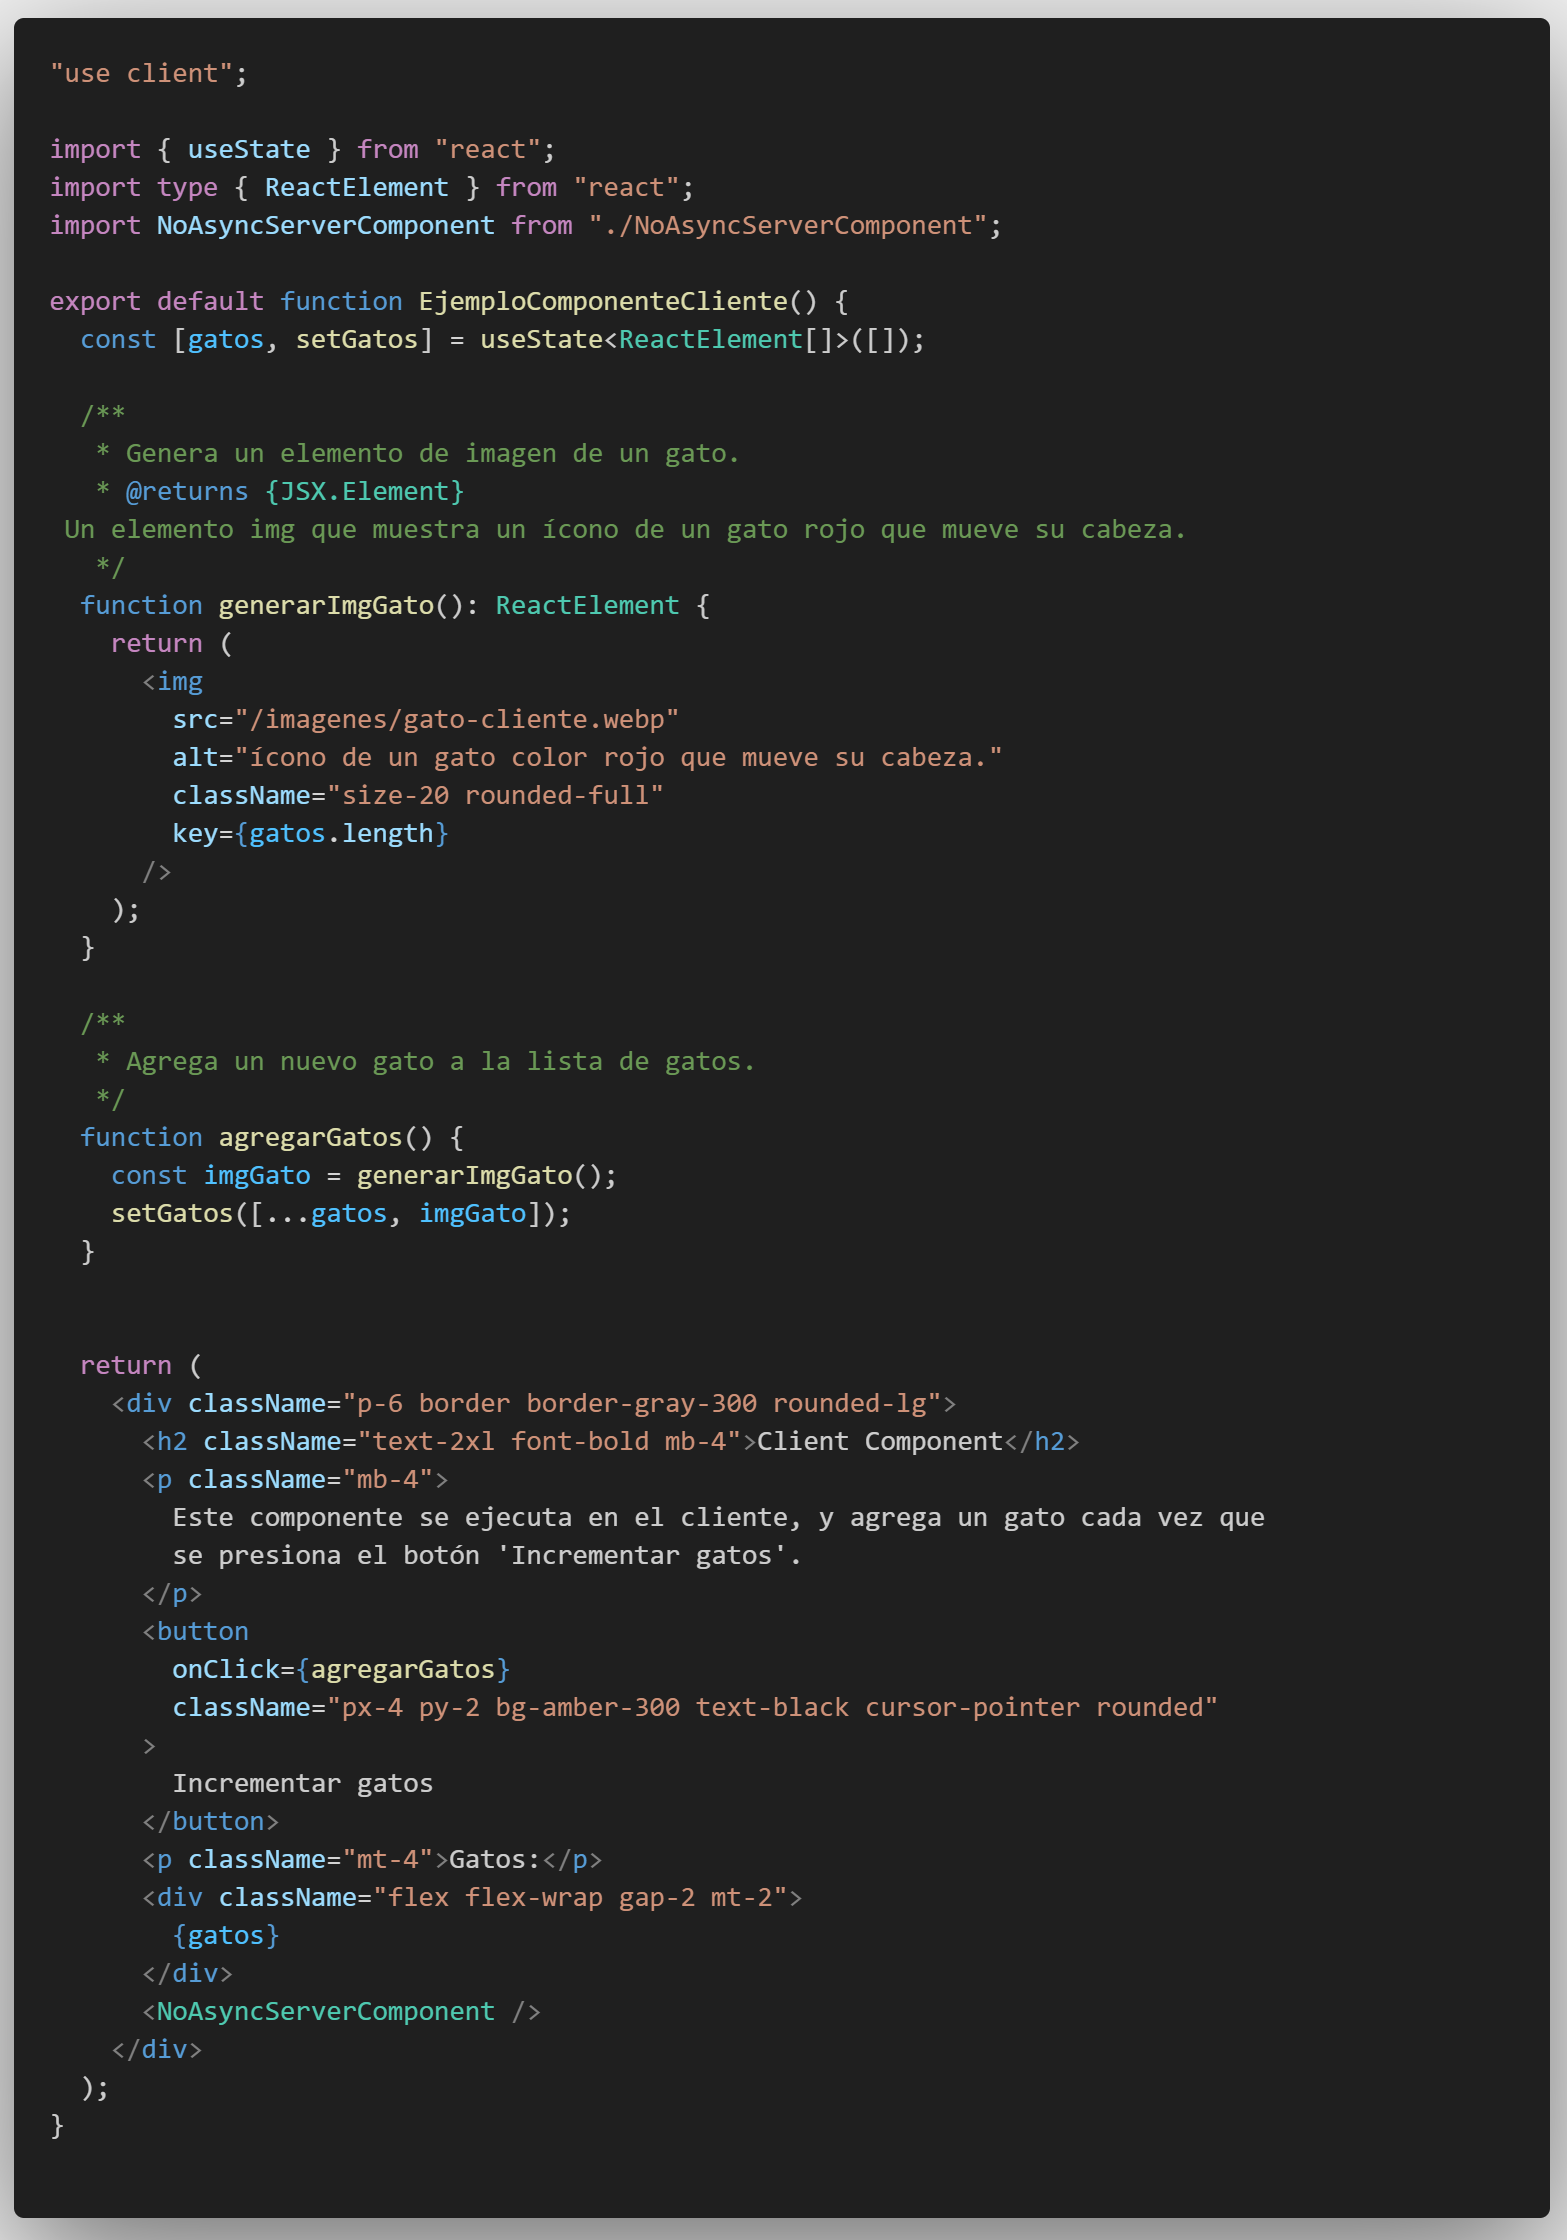
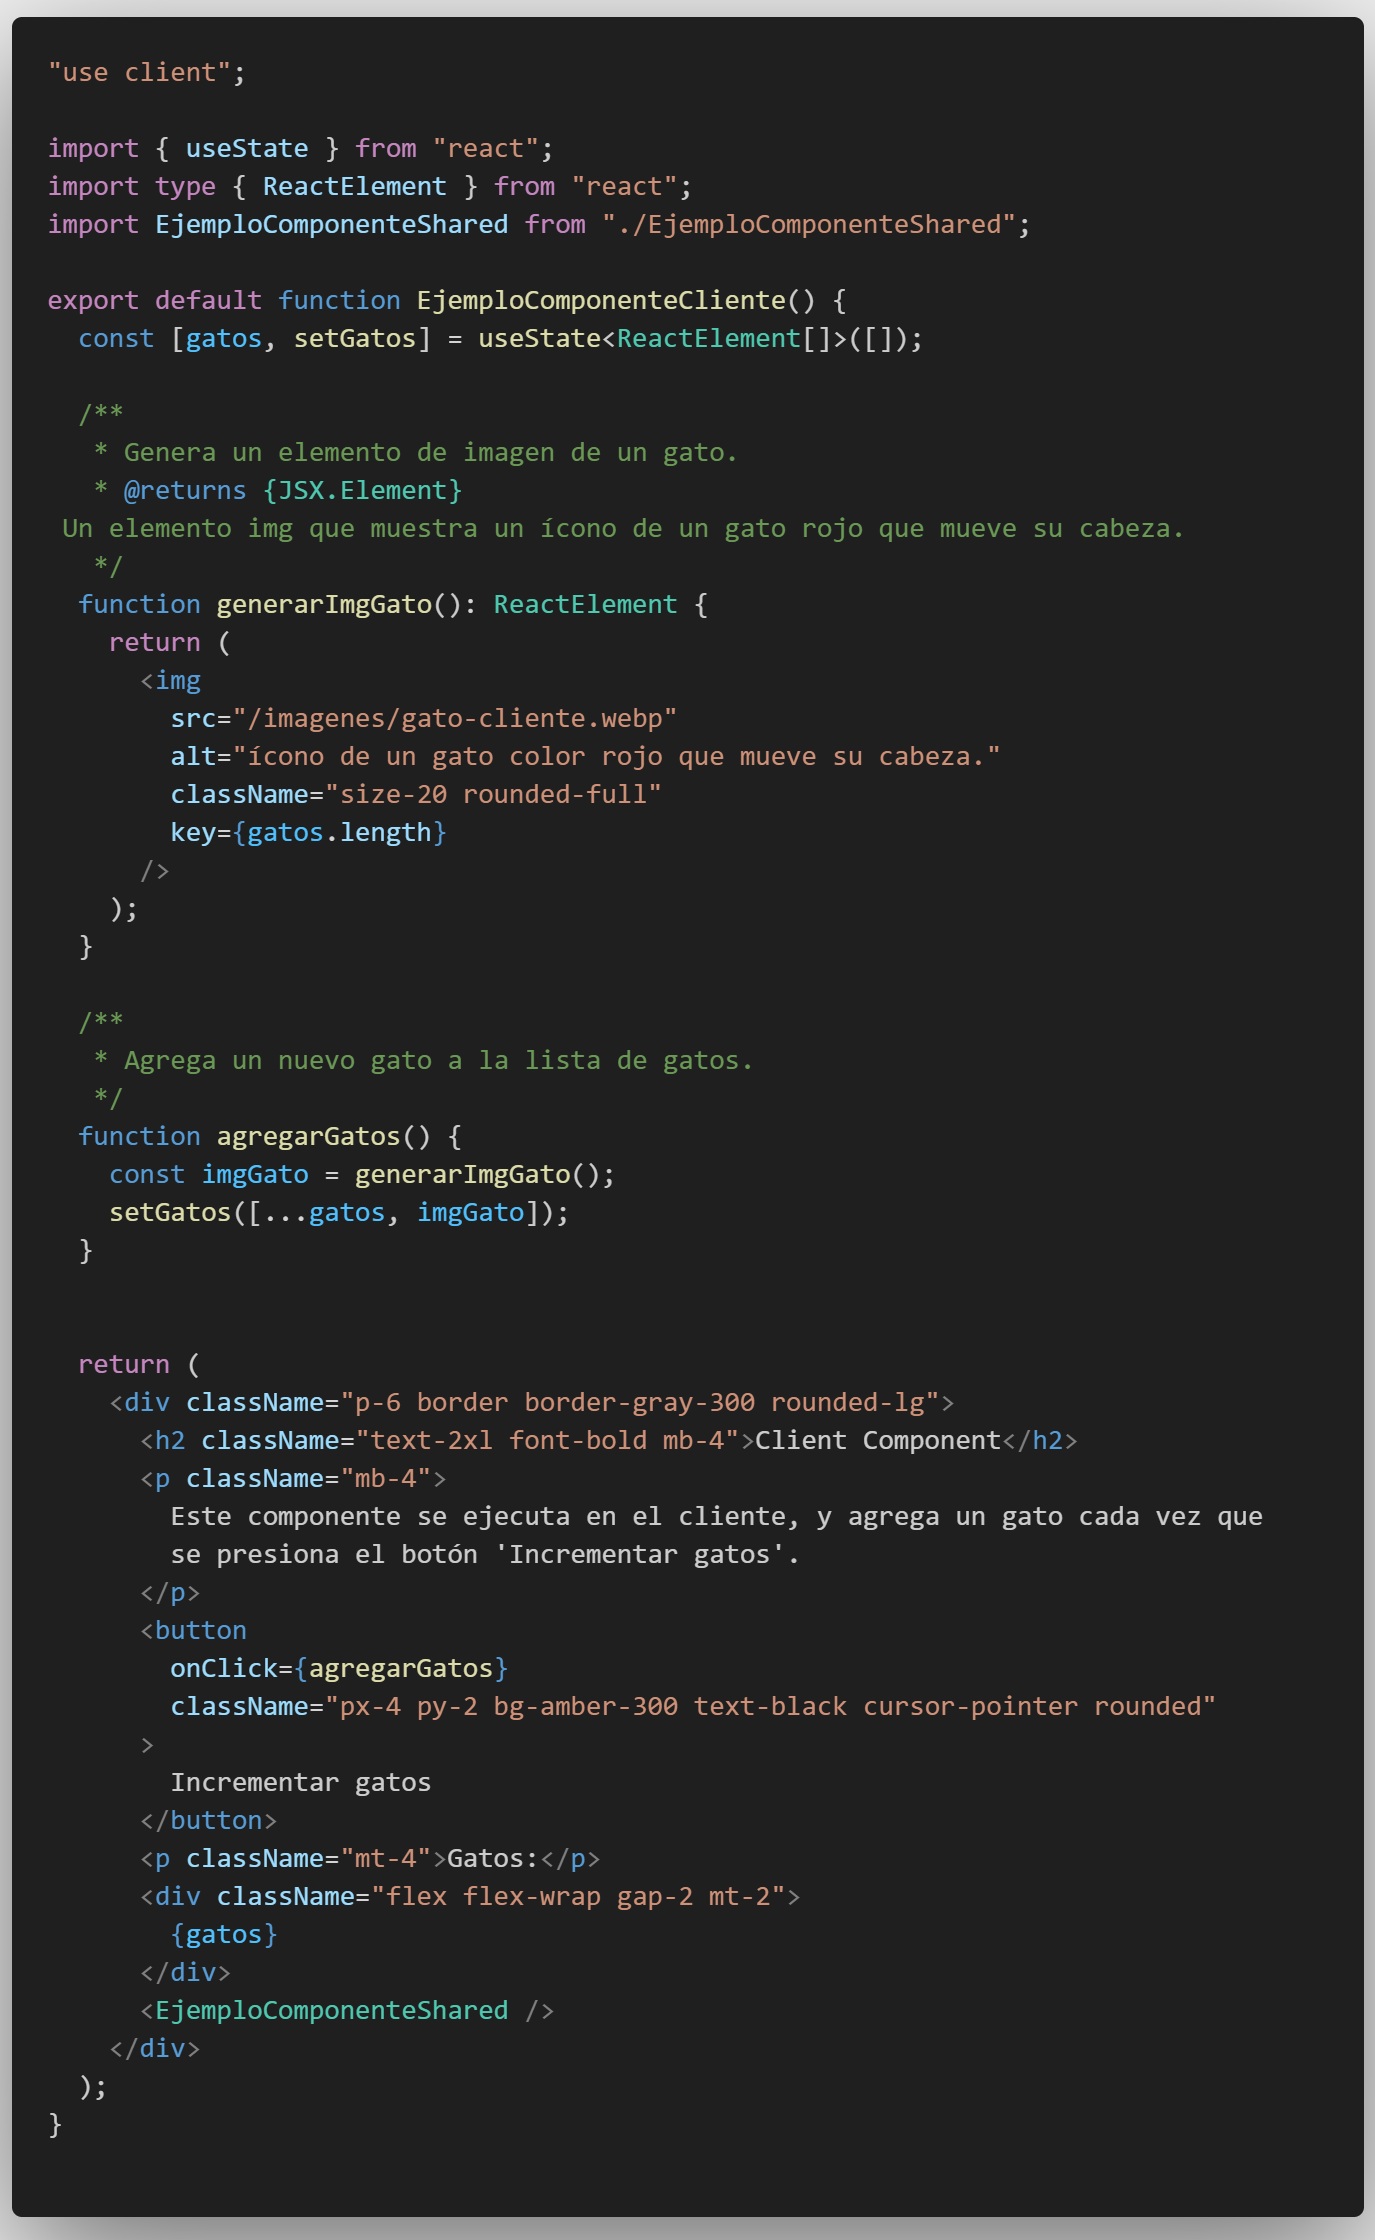
feat: reemplazar EjemploNoAsyncServerComponent por EjemploComponenteShared en EjemploComponenteCliente; eliminar componente no utilizado

diff --git a/src/components/ejemplos/EjemploComponenteCliente.tsx b/src/components/ejemplos/EjemploComponenteCliente.tsx
@@ -2,7 +2,7 @@
 
 import { useState } from "react";
 import type { ReactElement } from "react";
-import NoAsyncServerComponent from "./EjemploNoAsyncServerComponent";
+import EjemploComponenteShared from "./EjemploComponenteShared";
 
 export default function EjemploComponenteCliente() {
   const [gatos, setGatos] = useState<ReactElement[]>([]);
@@ -48,7 +48,7 @@ export default function EjemploComponenteCliente() {
       <div className="flex flex-wrap gap-2 mt-2">
         {gatos}
       </div>
-      <NoAsyncServerComponent />
+      <EjemploComponenteShared />
     </div>
   );
 }
